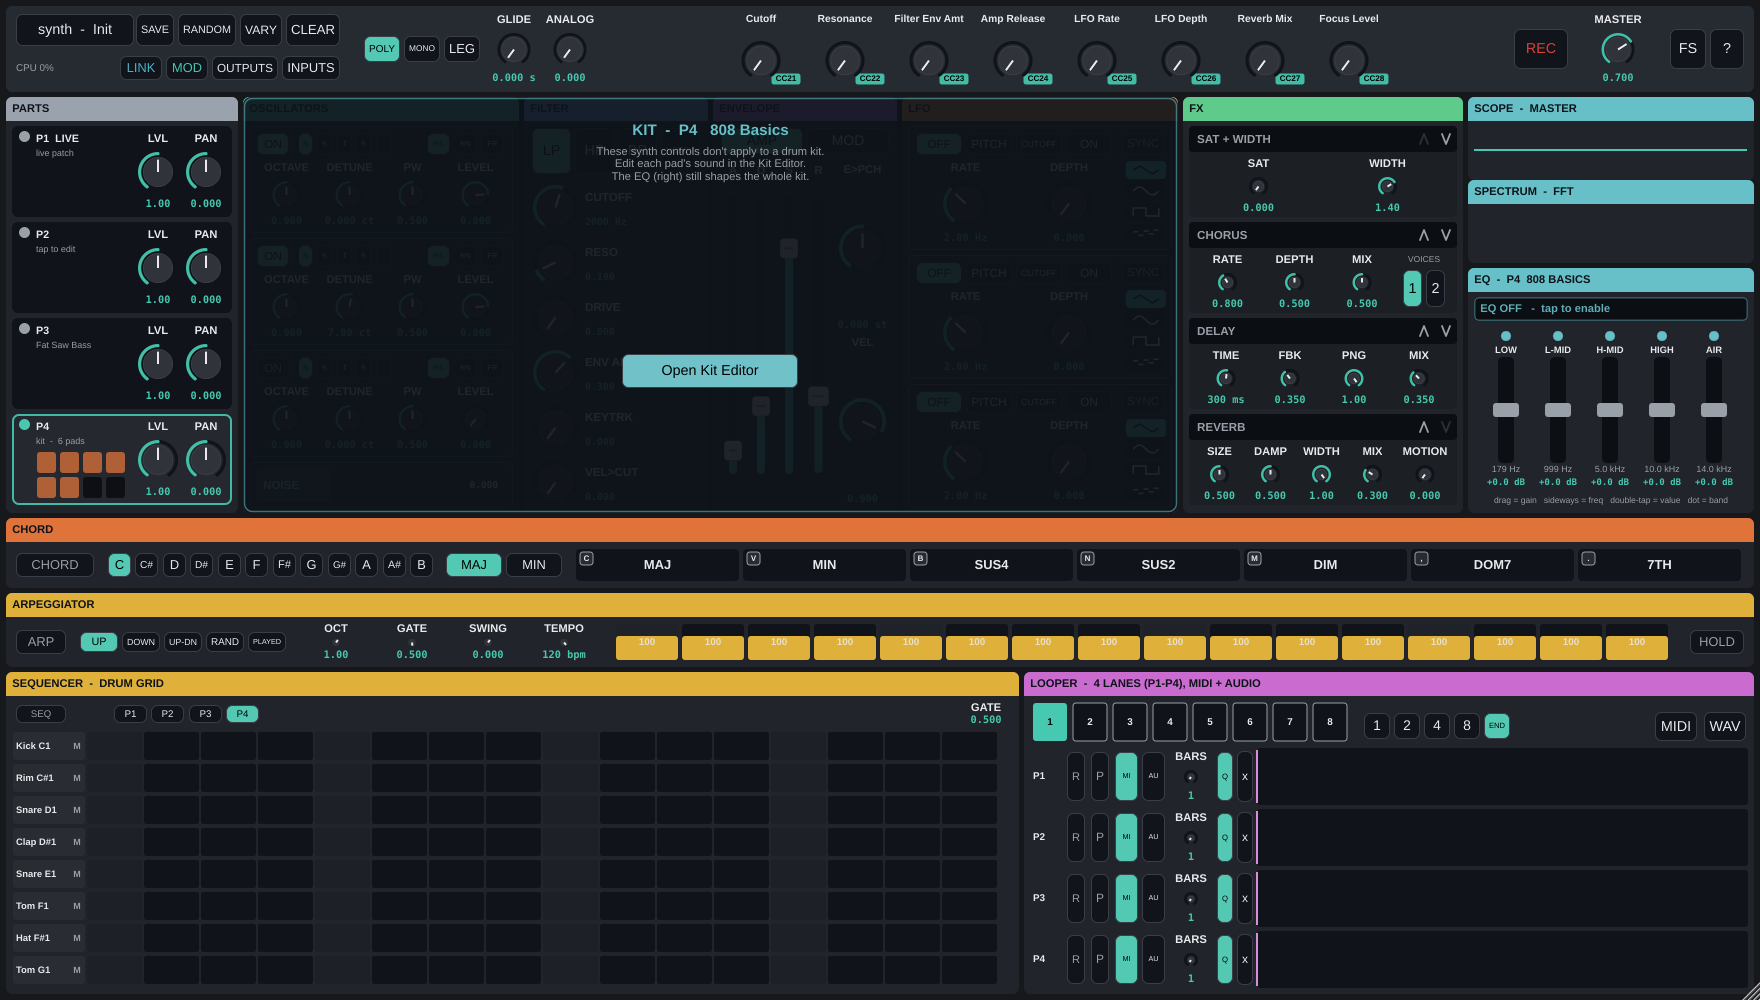
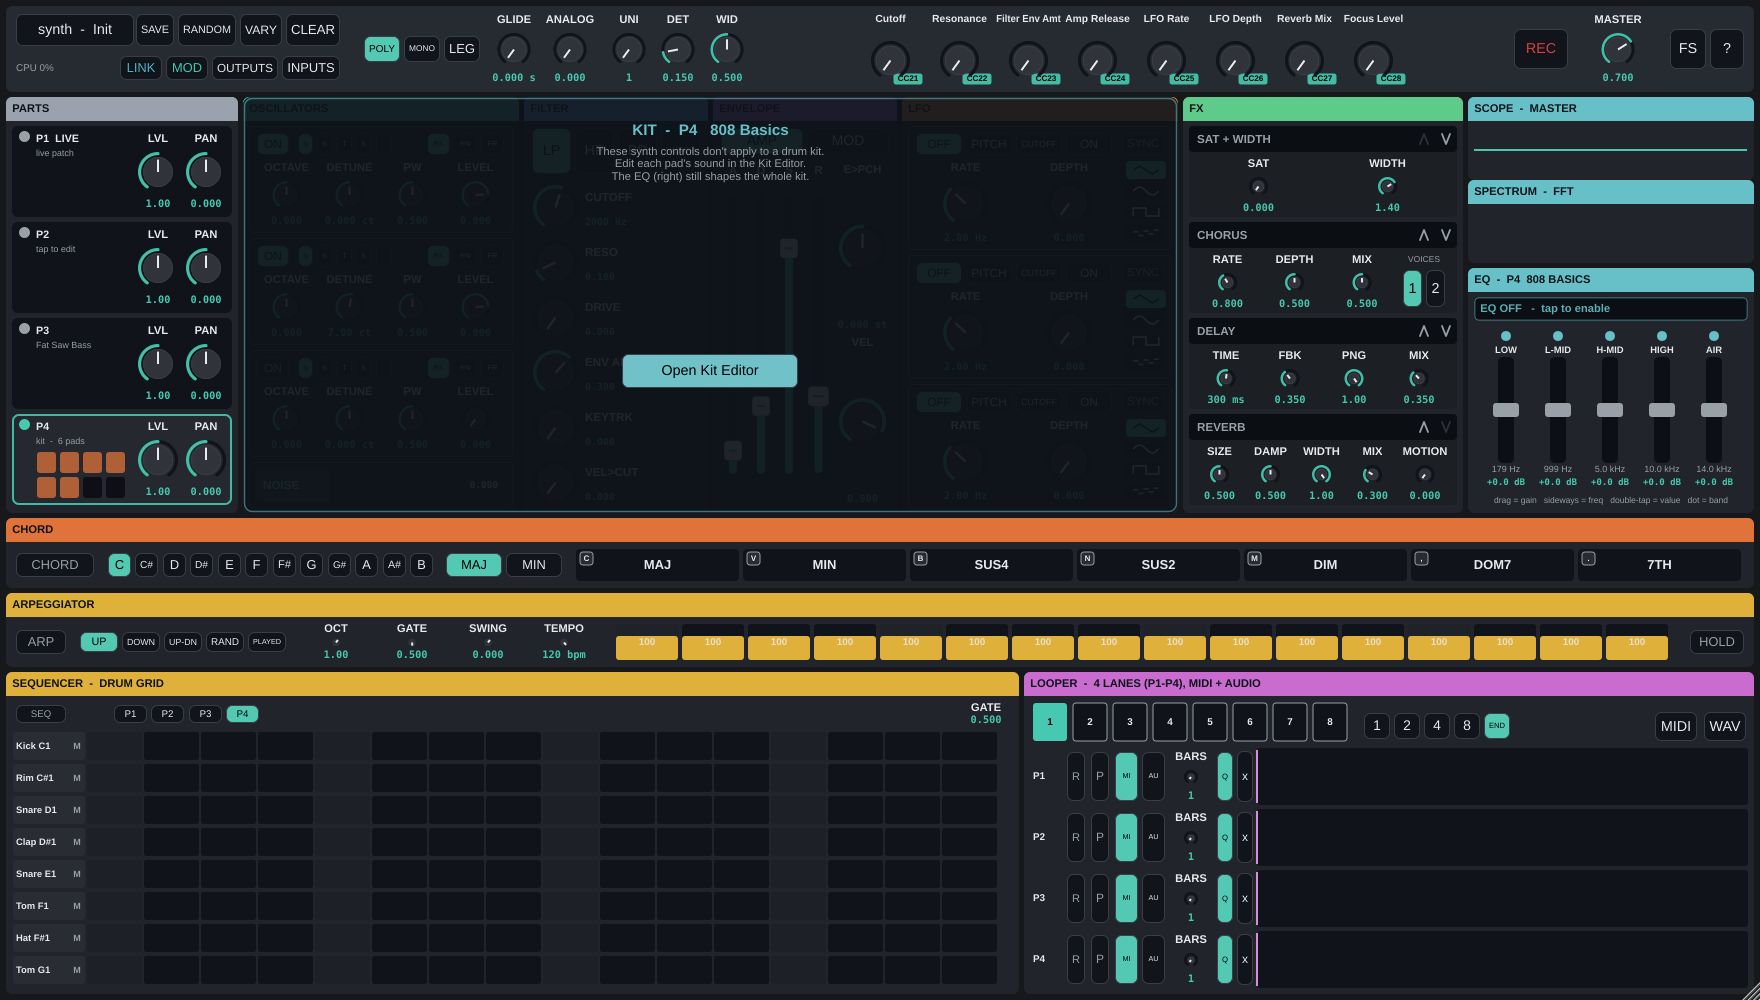
#96 Inc 2: unison UI (UNI/DET/WID) + Supersaw preset + docs
Complete the unison feature.

- TopBar voice group gains UNI (count) / DET (detune) / WID (stereo width) knobs, beside
  ANALOG — the voice-character cluster. UI smoke test asserts they're bound + visible;
  unison-controls.png snapshot for review.
- "Supersaw" factory preset (count 7, wide detune) shows the feature off; factory-library
  count 24 -> 25 ("every preset makes sound" covers it).
- CHANGELOG + README document unison (up to a 7-voice detuned/panned/phase-decorrelated
  stack — a real supersaw, off by default).

Release 509 (pluginval flake #103 retried green) + --sanitize (ASan/UBSan) green; goldens
bit-identical. #96 done: DSP + params + engine + cap + UI + preset + docs.

diff --git a/Source/UI/TopBar.h b/Source/UI/TopBar.h
@@ -136,7 +136,15 @@ public:
         glide = std::make_unique<RotaryKnob> (proc.apvts, ParamID::glideTime, "GLIDE", proc.getMidiLearn());
         analog = std::make_unique<RotaryKnob> (proc.apvts, ParamID::analog, "ANALOG", proc.getMidiLearn());   // Tier 1b drift
         analog->setHelp ("Analog drift: subtle per-voice pitch & pulse-width wander for a livelier, vintage feel");
+        // #96 Unison: voice-wide stack. UNI count (1 = off), DETune spread, WIDth (stereo).
+        uni    = std::make_unique<RotaryKnob> (proc.apvts, ParamID::oscUnison,       "UNI", proc.getMidiLearn());
+        uni->setHelp ("Unison: stack this many detuned voices per note (1 = off). The live profile caps high counts.");
+        uniDet = std::make_unique<RotaryKnob> (proc.apvts, ParamID::oscUnisonDetune, "DET", proc.getMidiLearn());
+        uniDet->setHelp ("Unison detune: how far the stacked voices spread in pitch");
+        uniWid = std::make_unique<RotaryKnob> (proc.apvts, ParamID::oscUnisonWidth,  "WID", proc.getMidiLearn());
+        uniWid->setHelp ("Unison width: how far the stacked voices spread across the stereo field");
         addAndMakeVisible (*mode); addAndMakeVisible (*glide); addAndMakeVisible (*analog);
+        addAndMakeVisible (*uni); addAndMakeVisible (*uniDet); addAndMakeVisible (*uniWid);
 
         refreshMacroLabels();
         startTimerHz (4);   // CPU readout + macro-label resync
@@ -182,6 +190,10 @@ public:
         mode->setBounds (tb.removeFromLeft (120).withSizeKeepingCentre (120, 30)); tb.removeFromLeft (6);
         glide->setBounds  (tb.removeFromLeft (52)); tb.removeFromLeft (4);
         analog->setBounds (tb.removeFromLeft (52)); tb.removeFromLeft (10);
+        // #96 Unison: UNI (count) / DET / WID, just right of ANALOG.
+        uni->setBounds    (tb.removeFromLeft (46)); tb.removeFromLeft (3);
+        uniDet->setBounds (tb.removeFromLeft (46)); tb.removeFromLeft (3);
+        uniWid->setBounds (tb.removeFromLeft (46)); tb.removeFromLeft (10);
 
         // 8 macro knobs, packed to 75% of the middle span (J4#1: closer together), centred.
         const int n = macros.size();
@@ -402,7 +414,7 @@ private:
     inline static const juce::Colour kLinkRing { 0xff4bb3c4 };   // LINK cyan (matches the knob armed ring)
     juce::OwnedArray<RotaryKnob> macros;
     juce::OwnedArray<juce::ParameterAttachment> macroAtt;
-    std::unique_ptr<RotaryKnob> master, glide, analog;
+    std::unique_ptr<RotaryKnob> master, glide, analog, uni, uniDet, uniWid;
     std::unique_ptr<HSelector> mode;
     bool voiceCtrlsDisabled = false;   // mode/glide greyed while a kit part is active
     juce::Rectangle<int> statusArea;

diff --git a/tests/plugin/test_ui_smoke.cpp b/tests/plugin/test_ui_smoke.cpp
@@ -325,6 +325,34 @@ TEST_CASE ("WT wave swaps the visible PW<->WT POS control (#95)", "[plugin][smok
     REQUIRE_FALSE (die->isVisible());
 }
 
+// --- #96: the unison controls (COUNT/DETUNE/WIDTH) are wired + render ---------------------
+TEST_CASE ("unison: UNI/DET/WID controls are bound and render (#96)", "[plugin][smoke][unison]")
+{
+    juce::ScopedJuceInitialiser_GUI juceInit;
+    VASynthProcessor p;
+    std::unique_ptr<juce::AudioProcessorEditor> ed (p.createEditor());
+    ed->setSize (1760, 1000);
+
+    auto* uni = findKnob (*ed, ParamID::oscUnison);
+    auto* det = findKnob (*ed, ParamID::oscUnisonDetune);
+    auto* wid = findKnob (*ed, ParamID::oscUnisonWidth);
+    REQUIRE (uni != nullptr);
+    REQUIRE (det != nullptr);
+    REQUIRE (wid != nullptr);
+    REQUIRE (uni->isVisible());
+
+    // The count param drives the knob (7 = a full stack).
+    p.apvts.getParameter (ParamID::oscUnison)->setValueNotifyingHost (
+        p.apvts.getParameter (ParamID::oscUnison)->convertTo0to1 (7.0f));
+    REQUIRE ((int) p.apvts.getRawParameterValue (ParamID::oscUnison)->load() == 7);
+
+    juce::Component* bar = uni->getParentComponent();
+    while (bar != nullptr && dynamic_cast<TopBar*> (bar) == nullptr) bar = bar->getParentComponent();
+    REQUIRE (bar != nullptr);
+    bar->repaint();
+    snapshot (*bar, "unison-controls.png");
+}
+
 // --- J2: each looper lane has its OWN bars selector (per-part loop length) ---------------
 TEST_CASE ("J2: per-lane looper BARS selectors are wired + render (#J2)", "[plugin][smoke][looper][j2]")
 {

diff --git a/tests/plugin/test_presets_factory.cpp b/tests/plugin/test_presets_factory.cpp
@@ -37,7 +37,7 @@ TEST_CASE ("factory library has the expected presets spanning the categories", "
     VASynthProcessor p;
     const auto& lib = p.factoryPresetLibrary();
 
-    REQUIRE (lib.size() == 24);        // 16 tonal + 6 drums (7A) + 2 wavetable (#95 3c)
+    REQUIRE (lib.size() == 25);        // 16 tonal + 6 drums (7A) + 2 wavetable (#95 3c) + 1 supersaw (#96)
     for (auto& fp : lib.all())
     {
         REQUIRE (fp.name.isNotEmpty());

diff --git a/CHANGELOG.md b/CHANGELOG.md
@@ -9,6 +9,13 @@ follow [Semantic Versioning](https://semver.org/spec/v2.0.0.html).
 Post-1.0 work on `master` (not yet tagged; the ThinkPad validation is the final pre-tag gate).
 
 ### Added
+- **Unison — a real supersaw.** Each note can stack up to **7 detuned voices** (a voice-wide **UNI**
+  count, off by default). It's not a chorus: each stack voice gets a **random start phase** (so they
+  don't collapse into one loud voice), a **non-uniform detune spread** (**DET**), an **independent
+  analog drift**, and its own **place in the stereo field** (**WID**) — the thing that sounds
+  expensive. An equal-power level trim keeps the volume steady as you raise the count. Off (count 1)
+  is bit-identical to before. The live profile caps high counts to protect the CPU budget (studio
+  keeps all 7); a **Supersaw** preset ships to show it off.
 - **Wavetable oscillator — a 5th wave, "WT".** Each of the three oscillators can select **WT**
   alongside saw/square/triangle/sine. A wavetable is band-limited with **per-octave mip-maps** (built
   off the audio thread), so high notes stay clean; playback picks the mip by pitch, interpolates within

diff --git a/docs/plans/96-unison.md b/docs/plans/96-unison.md
@@ -72,11 +72,10 @@ click-torture in the same commit, ThinkPad-derated bench proving count==1 free +
 - `buildVoiceParams` reads them; the engine clamps the count under Efficient (2–3) vs HQ (7).
 - Migration/persistence; golden hold (defaults off).
 
-### Inc 3 — UI
-- Unison controls (COUNT selector + DETUNE + WIDTH knobs) in the oscillator/mixer area; screenshot.
-
-### Inc 4 — presets + docs
-- 1–2 supersaw presets (count 7, wide); CHANGELOG + README; bench numbers.
+### Inc 2 — UI + presets + docs  ← DONE
+- UNI (count) / DET / WID knobs in the TopBar voice group (beside ANALOG); UI smoke test +
+  `unison-controls.png`. **Supersaw** factory preset (count 7, wide). CHANGELOG + README updated.
+  Bench scenario is deferred to the #100 ThinkPad prep (informational, not a ctest gate).
 
 ## Out of scope (post-1.0)
 - Per-osc independent unison; unison for the noise source; a "unison as its own voices" pool model.

diff --git a/README.md b/README.md
@@ -16,7 +16,8 @@ a general-purpose synth that runs in any VST3 host or standalone.
 ## Features
 
 - **3 anti-aliased oscillators** (PolyBLEP saw/square-PWM/tri/sine + **WT** mip-mapped wavetable with a
-  sweepable position, factory tables + a seeded random die), 4× oversampled
+  sweepable position, factory tables + a seeded random die), 4× oversampled, with **unison** (up to a
+  7-voice detuned/panned/phase-decorrelated stack — a proper supersaw, off by default)
   with a selectable Efficient/HQ quality-vs-CPU tradeoff, per-osc level + kill switch.
 - **TPT state-variable filter** (LP/HP/BP/Notch), resonant and stable, with velocity
   and keytrack routing.
